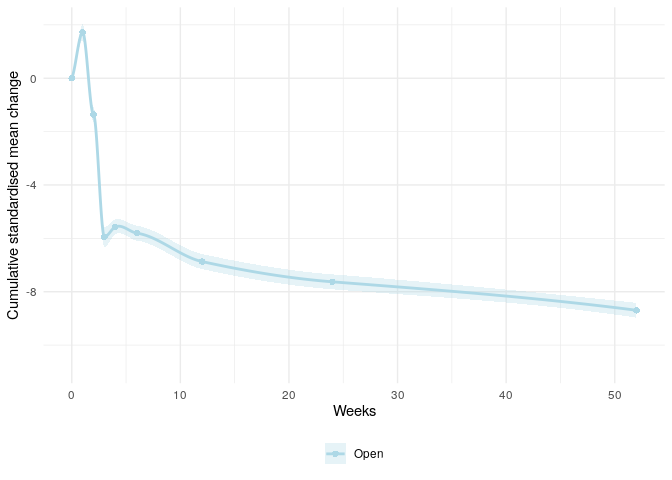
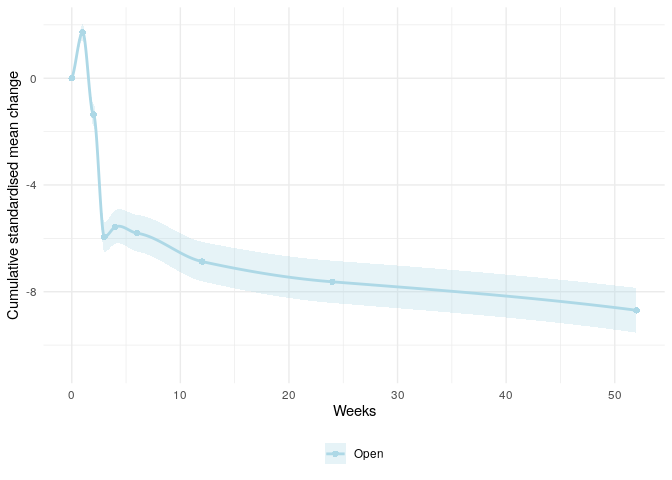
Changed CI method to wald

Changed region(s): [[0.1562, 0.4375, 0.9688, 0.6875]]

diff --git a/README.md b/README.md
@@ -38,7 +38,23 @@ install.packages("devtools")
 
 # Install CSRtools from GitHub
 devtools::install_github("becky-turner/csrtools")
+```
 
+    ## 
+    ## ── R CMD build ─────────────────────────────────────────────────────────────────
+    ##      checking for file ‘/tmp/RtmpxOhNlW/remotesab1153fd808d/becky-turner-csrtools-be78c7b/DESCRIPTION’ ...  ✔  checking for file ‘/tmp/RtmpxOhNlW/remotesab1153fd808d/becky-turner-csrtools-be78c7b/DESCRIPTION’
+    ##   ─  preparing ‘csrtools’:
+    ##      checking DESCRIPTION meta-information ...  ✔  checking DESCRIPTION meta-information
+    ##   ─  excluding invalid files
+    ##      Subdirectory 'R' contains invalid file names:
+    ##      ‘_globals.R’
+    ##   ─  checking for LF line-endings in source and make files and shell scripts
+    ##   ─  checking for empty or unneeded directories
+    ##   ─  building ‘csrtools_0.1.0.tar.gz’
+    ##      
+    ## 
+
+``` r
 # Once installed, load the package
 library("csrtools")
 ```
@@ -173,7 +189,7 @@ open_smc_data <- open_smc_data[order(open_smc_data$time_point), ]
 open_smc_data$smc_cum <- cumsum(open_smc_data$smc)
 
 # Calculate cumulative confidence intervals (fixed-width option)
-open_smc_data <- cumulative_ci(open_smc_data, method = "fixed")
+open_smc_data <- cumulative_ci(open_smc_data, method = "wald")
 
 # Add 0 time point
 open_smc_data <- rbind(0, open_smc_data)
@@ -192,13 +208,13 @@ head(open_smc_data)
     ## 4          3          238 -4.5813823 -4.95968705 -4.20307745 -5.944285
     ## 5          4         1978  0.3707095  0.09280147  0.64861761 -5.573575
     ## 6          6          439 -0.2324367 -0.51016365  0.04529025 -5.806012
-    ##   lower_ci_fixed upper_ci_fixed intervention
-    ## 1       0.000000       0.000000         Open
-    ## 2       1.424809       2.016284         Open
-    ## 3      -1.650876      -1.074929         Open
-    ## 4      -6.322590      -5.565980         Open
-    ## 5      -5.851483      -5.295667         Open
-    ## 6      -6.083739      -5.528285         Open
+    ##      var_cum lower_ci_wald upper_ci_wald intervention
+    ## 1 0.00000000      0.000000     0.0000000         Open
+    ## 2 0.02276669      1.424809     2.0162839         Open
+    ## 3 0.04435370     -1.775685    -0.9501204         Open
+    ## 4 0.08160758     -6.504199    -5.3843709         Open
+    ## 5 0.10171194     -6.198665    -4.9484861         Open
+    ## 6 0.12179010     -6.490021    -5.1220027         Open
 
 ## Visualise cumulative effects
 
@@ -208,7 +224,7 @@ confidence intervals as a time-series.
 
 ``` r
 smc_smooth <- smooth_csmc(open_smc_data, csmc = "smc_cum",
-                          lower_ci = "lower_ci_fixed", upper_ci = "upper_ci_fixed",
+                          lower_ci = "lower_ci_wald", upper_ci = "upper_ci_wald",
                           intervention = "intervention",
                           span = 0.3, time_series = seq(0, 52, 0.001))
 ```
